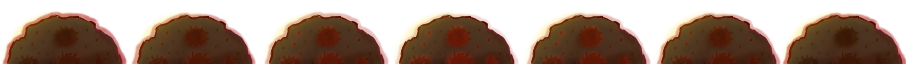
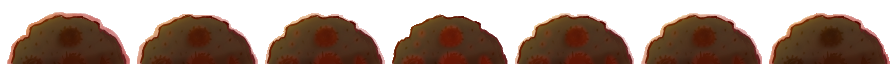
画像と中型隕石

diff --git a/Star Rain/ObjBlock.cpp b/Star Rain/ObjBlock.cpp
@@ -97,6 +97,12 @@ void CObjBlock::Action()
 				Objs::InsertObj(smto, OBJ_SMALLMETEO, 12);
 				m_map[i][j] = 0;
 			}
+			else if (m_map[i][j] == 10)
+			{
+				ObjMeteotyu* smto = new ObjMeteotyu(j*ALL_BLOCK_SIZE, i*ALL_BLOCK_SIZE);
+				Objs::InsertObj(smto, OBJ_METEOTYU, 13);
+				m_map[i][j] = 0;
+			}
 		}
 	}
 }
